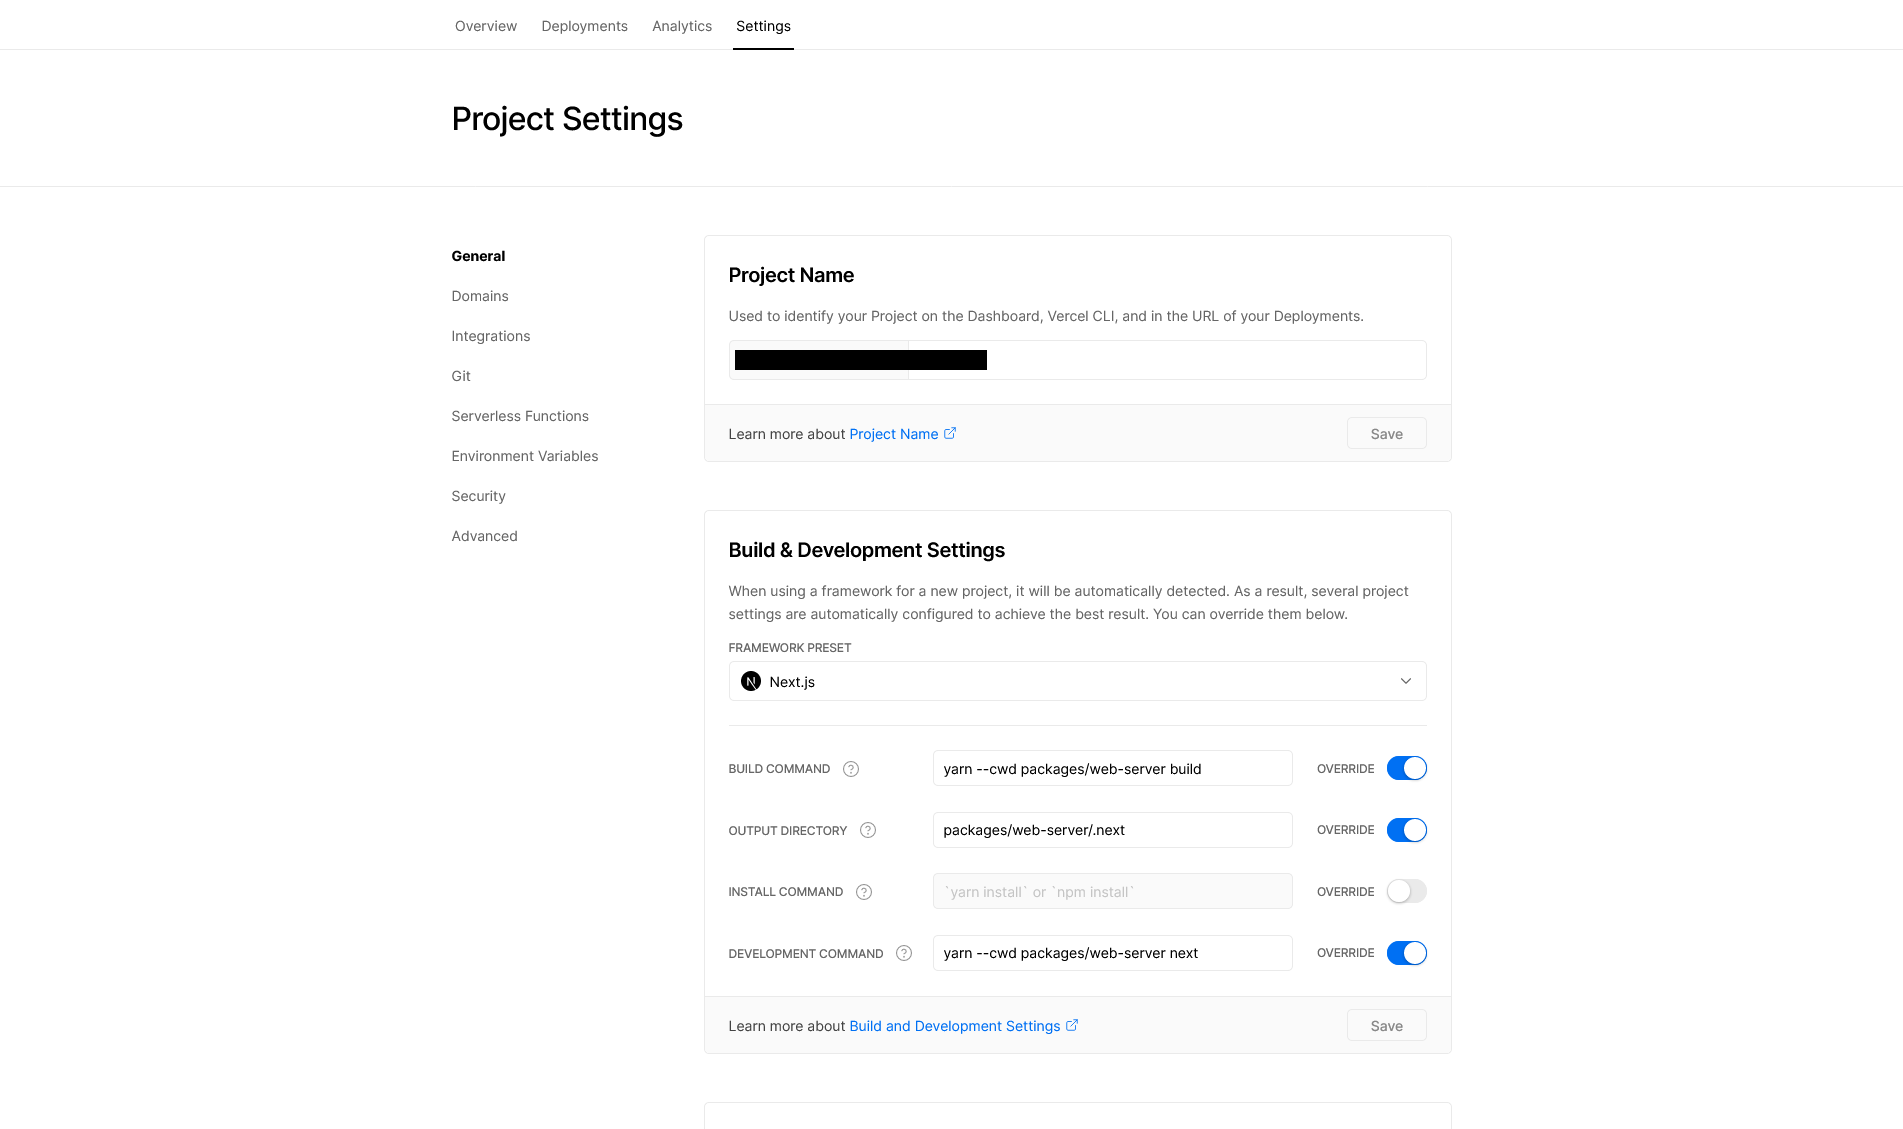
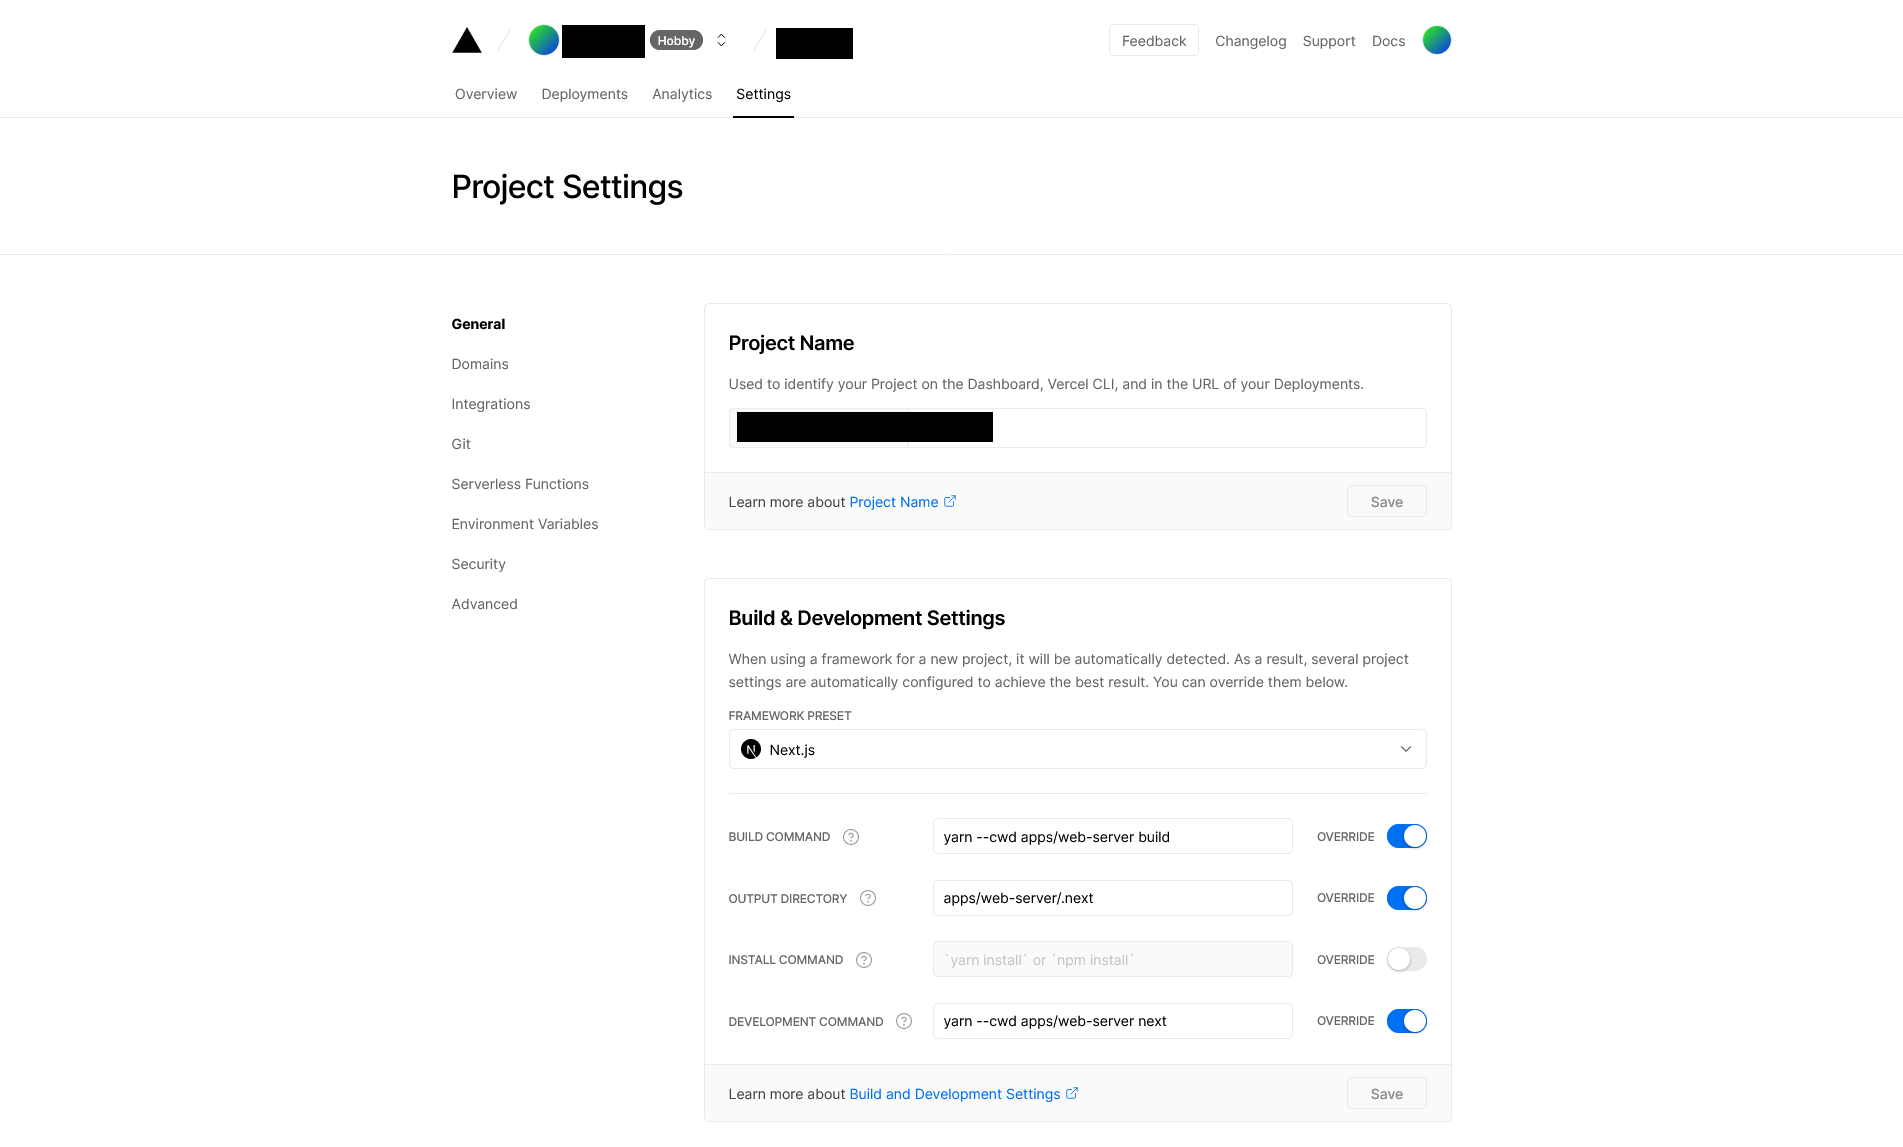
api-serverとweb-serverがpackagesからappsに移動されたのを反映

diff --git a/docs/server/api-server/deploy/general.md b/docs/server/api-server/deploy/general.md
@@ -55,10 +55,10 @@ $ git clone https://github.com/flocon-trpg/servers.git -b release --depth 1
 `main`ブランチは開発用ブランチであるため、開発者以外の利用は推奨されません。
 :::
 
-ダウンロードが完了したら、`servers/packages/api-server` に移動します。
+ダウンロードが完了したら、`servers/apps/api-server` に移動します。
 
 ```console
-$ cd servers/packages/api-server
+$ cd servers/apps/api-server
 ```
 
 次のコマンドを実行して、必要なnpmパッケージをインストールします。なお、これには合計600MB程度のストレージ空き容量が必要です。また、これには数分から十数分程度の時間がかかることがあります。
@@ -77,7 +77,7 @@ $ yarn workspaces focus
 $ yarn run build 
 ```
 
-`servers/packages/api-server`フォルダ内に`.env.local` ファイルを作成して、[環境変数](../vars)を参照してAPIサーバーの設定情報を入力して保存します。
+`servers/apps/api-server`フォルダ内に`.env.local` ファイルを作成して、[環境変数](../vars)を参照してAPIサーバーの設定情報を入力して保存します。
 
 手動でデータベースのマイグレーションを行う場合は、次のコマンドを実行します（自動マイグレーションを有効化している場合はこの作業は必要ありません）。
 

diff --git a/docs/server/web-server/deploy/export.md b/docs/server/web-server/deploy/export.md
@@ -40,7 +40,7 @@ $ git clone https://github.com/flocon-trpg/servers.git -b release --depth 1
 
 ダウンロードされた `server` フォルダはリネームしたり別の場所に移動しても構いません。
 
-`server/packages/web-server` フォルダ内で `.env.local` ファイルを作成します。
+`server/apps/web-server` フォルダ内で `.env.local` ファイルを作成します。
 
 :::info
 Windowsの場合は、設定でファイルの拡張子を表示するようにしてください。
@@ -56,7 +56,7 @@ NEXT_PUBLIC_AUTH_PROVIDERS=email,google
 NEXT_PUBLIC_FIREBASE_STORAGE_ENABLED=true
 ```
 
-`server/packages/web-server` フォルダ内で次のコマンドを実行して、必要なパッケージをインストールします。なお、これには合計1GB程度の空きストレージ容量が必要です。また、これには数分から十数分程度の時間がかかることがあります。
+`server/apps/web-server` フォルダ内で次のコマンドを実行して、必要なパッケージをインストールします。なお、これには合計1GB程度の空きストレージ容量が必要です。また、これには数分から十数分程度の時間がかかることがあります。
 
 ```bash
 $ yarn workspaces focus

diff --git a/docs/server/web-server/deploy/vercel.md b/docs/server/web-server/deploy/vercel.md
@@ -17,10 +17,10 @@ sidebar_position: 1
 
 | キー                  | 値                                     |
 | --------------------- | -------------------------------------- |
-| `BUILD COMMAND`       | `yarn --cwd packages/web-server build` |
-| `OUTPUT DIRECTORY`    | `packages/web-server/.next`            |
+| `BUILD COMMAND`       | `yarn --cwd apps/web-server build` |
+| `OUTPUT DIRECTORY`    | `apps/web-server/.next`            |
 | `INSTALL COMMAND`     | 変更しない                             |
-| `DEVELOPMENT COMMAND` | `yarn --cwd packages/web-server next`  |
+| `DEVELOPMENT COMMAND` | `yarn --cwd apps/web-server next`  |
 
 ## Environmental Variables
 
